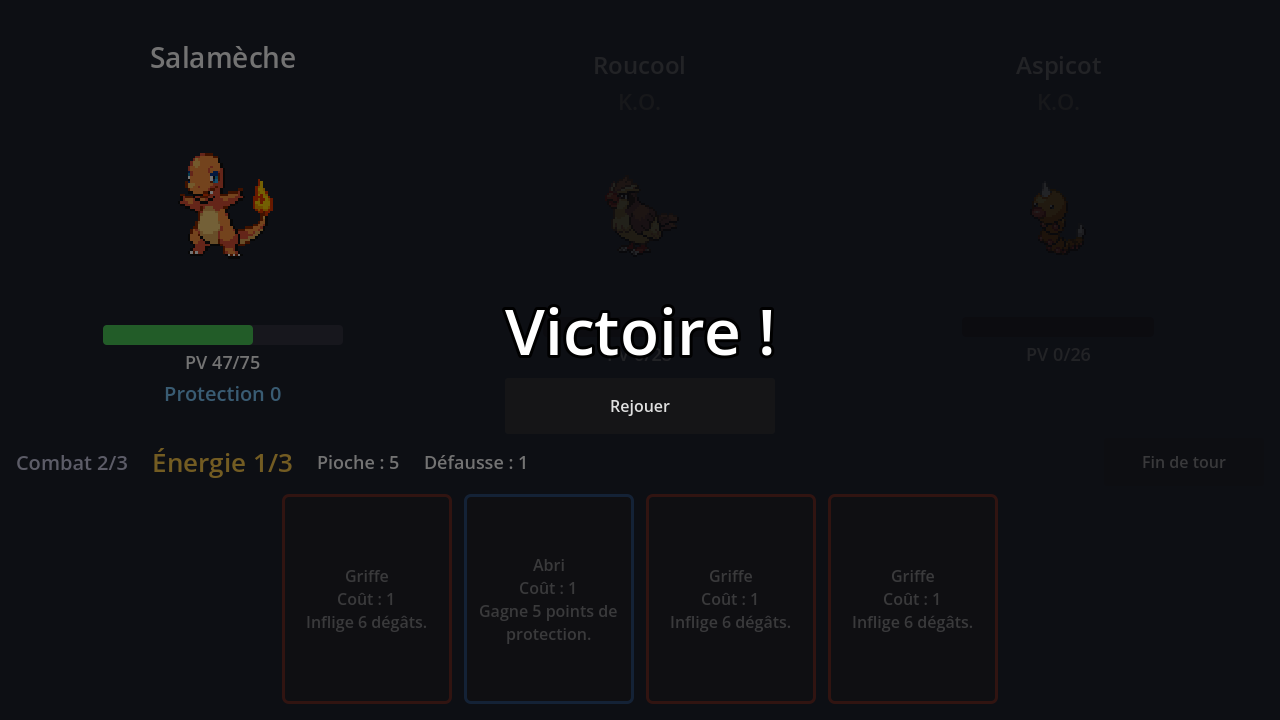
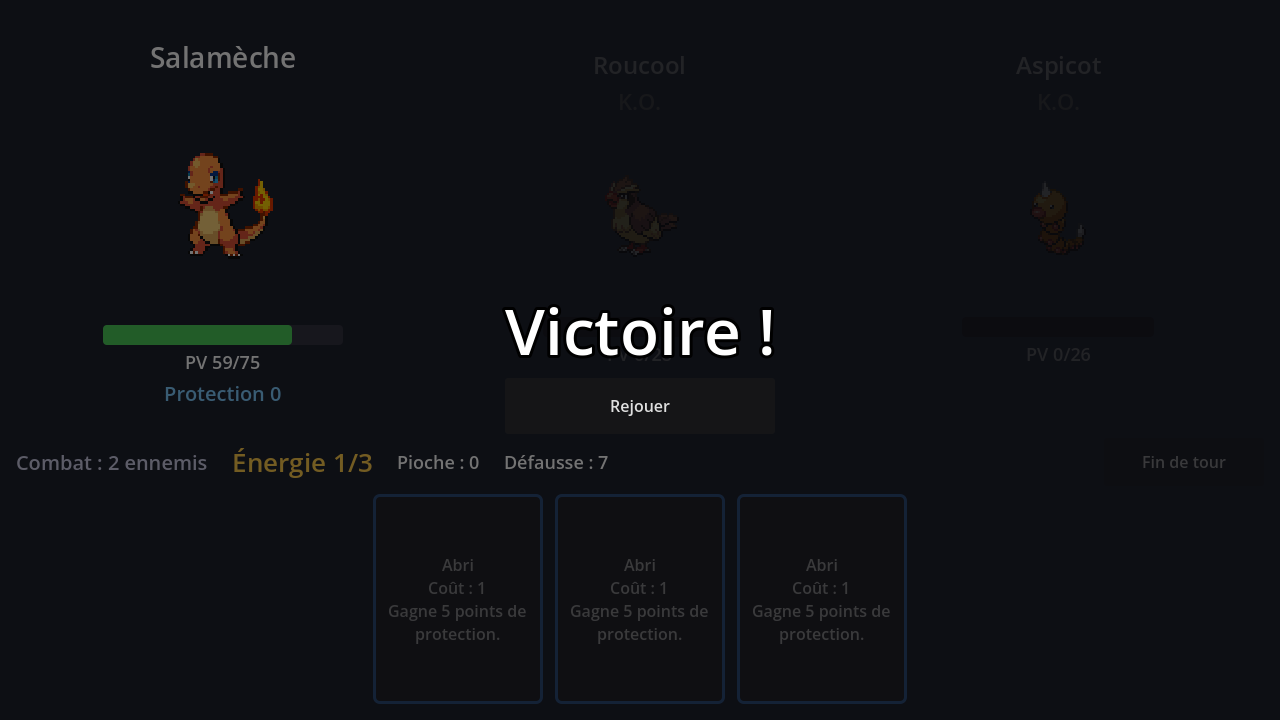
feat: random encounters, a solo fight for each enemy
Play-test feedback: the developer always met Rattata alone. Each launch
and Rejouer now picks one of 10 encounters at random, never twice in a row.

Story: pokemon-spire 002

Claude-Session: https://claude.ai/code/session_01PhvxWc1QeuWwyXRJo7GgvA

Changed region(s): [[0.0938, 0.6111, 0.7812, 0.9778], [0.1875, 0.4278, 0.25, 0.4889], [0.1562, 0.4889, 0.1875, 0.5194]]

diff --git a/production/qa/evidence/story-002-intentions-et-multi-ennemis/README.md b/production/qa/evidence/story-002-intentions-et-multi-ennemis/README.md
@@ -6,17 +6,19 @@
 
 | Shot | Observed |
 |------|----------|
-| `01-solo-debut.png` | Rattata alone, intent "Attaque 7" above it, "Combat 1/3" |
-| `03-duo-debut.png` | Roucool "Protection 5" (blue), Aspicot "Attaque 4" (red), "Combat 2/3" |
+| `01-solo-debut.png` | Rattata alone, intent "Attaque 7" above it |
+| `03-duo-debut.png` | Roucool "Protection 5" (blue), Aspicot "Attaque 4" (red), "Combat : 2 ennemis" |
 | `05-trio-debut.png` | Rattata "Attaque 7", Nosferapti "Renforcement +1" (yellow), Chenipan "Attaque 5"; all 3 fit with the hand visible |
 | `06-trio-carte-selectionnee.png` | Griffe selected, hint "Choisissez une cible", living enemies tinted |
 | `07-trio-un-ko.png` | Nosferapti K.O. (faded, "K.O.", PV 0/22); Rattata 7 + Chenipan 5 hit → PV 63/75 (matches displayed intents) |
 | `02/04/08-*-victoire.png` | "Victoire !" only once all enemies are K.O.; arena dimmed behind the message |
-| `09-rejouer-apres-victoire.png` | Rejouer after the trio win wraps to Combat 1/3 |
-| `10-defaite.png`, `11-rejouer-apres-defaite.png` | Defeat, then Rejouer repeats the same encounter |
+| `09-rejouer-apres-victoire.png` | Rejouer picks a random encounter (never the same twice in a row) |
+| `10-defaite.png`, `11-rejouer-apres-defaite.png` | Defeat, then Rejouer picks another random encounter |
 
 **Defect found and fixed during the run:** the "Victoire !" text overlapped an enemy's HP label → added a dim backdrop behind the end-of-battle message.
 
 **Also verified headless:** 42/42 throwaway assertions (sequence/weighted patterns, executed action == displayed intent incl. strength, dead/invalid target rejected, win only when all dead, block on both sides, 9 malformed-data cases rejected by GameData).
 
 **Not covered:** real mouse clicks; web export.
+
+**Change after play-test feedback (2026-10-18):** the developer kept getting Rattata alone. Encounters are now 10 (a solo fight for each of the 5 Pokémon, 3 duos, 2 trios) and each launch / Rejouer picks one at random, never the same twice in a row (200 picks: all 10 seen, 0 repeats). The label now reads "Combat : N ennemi(s)". Screenshots in this folder were re-captured after the change.
